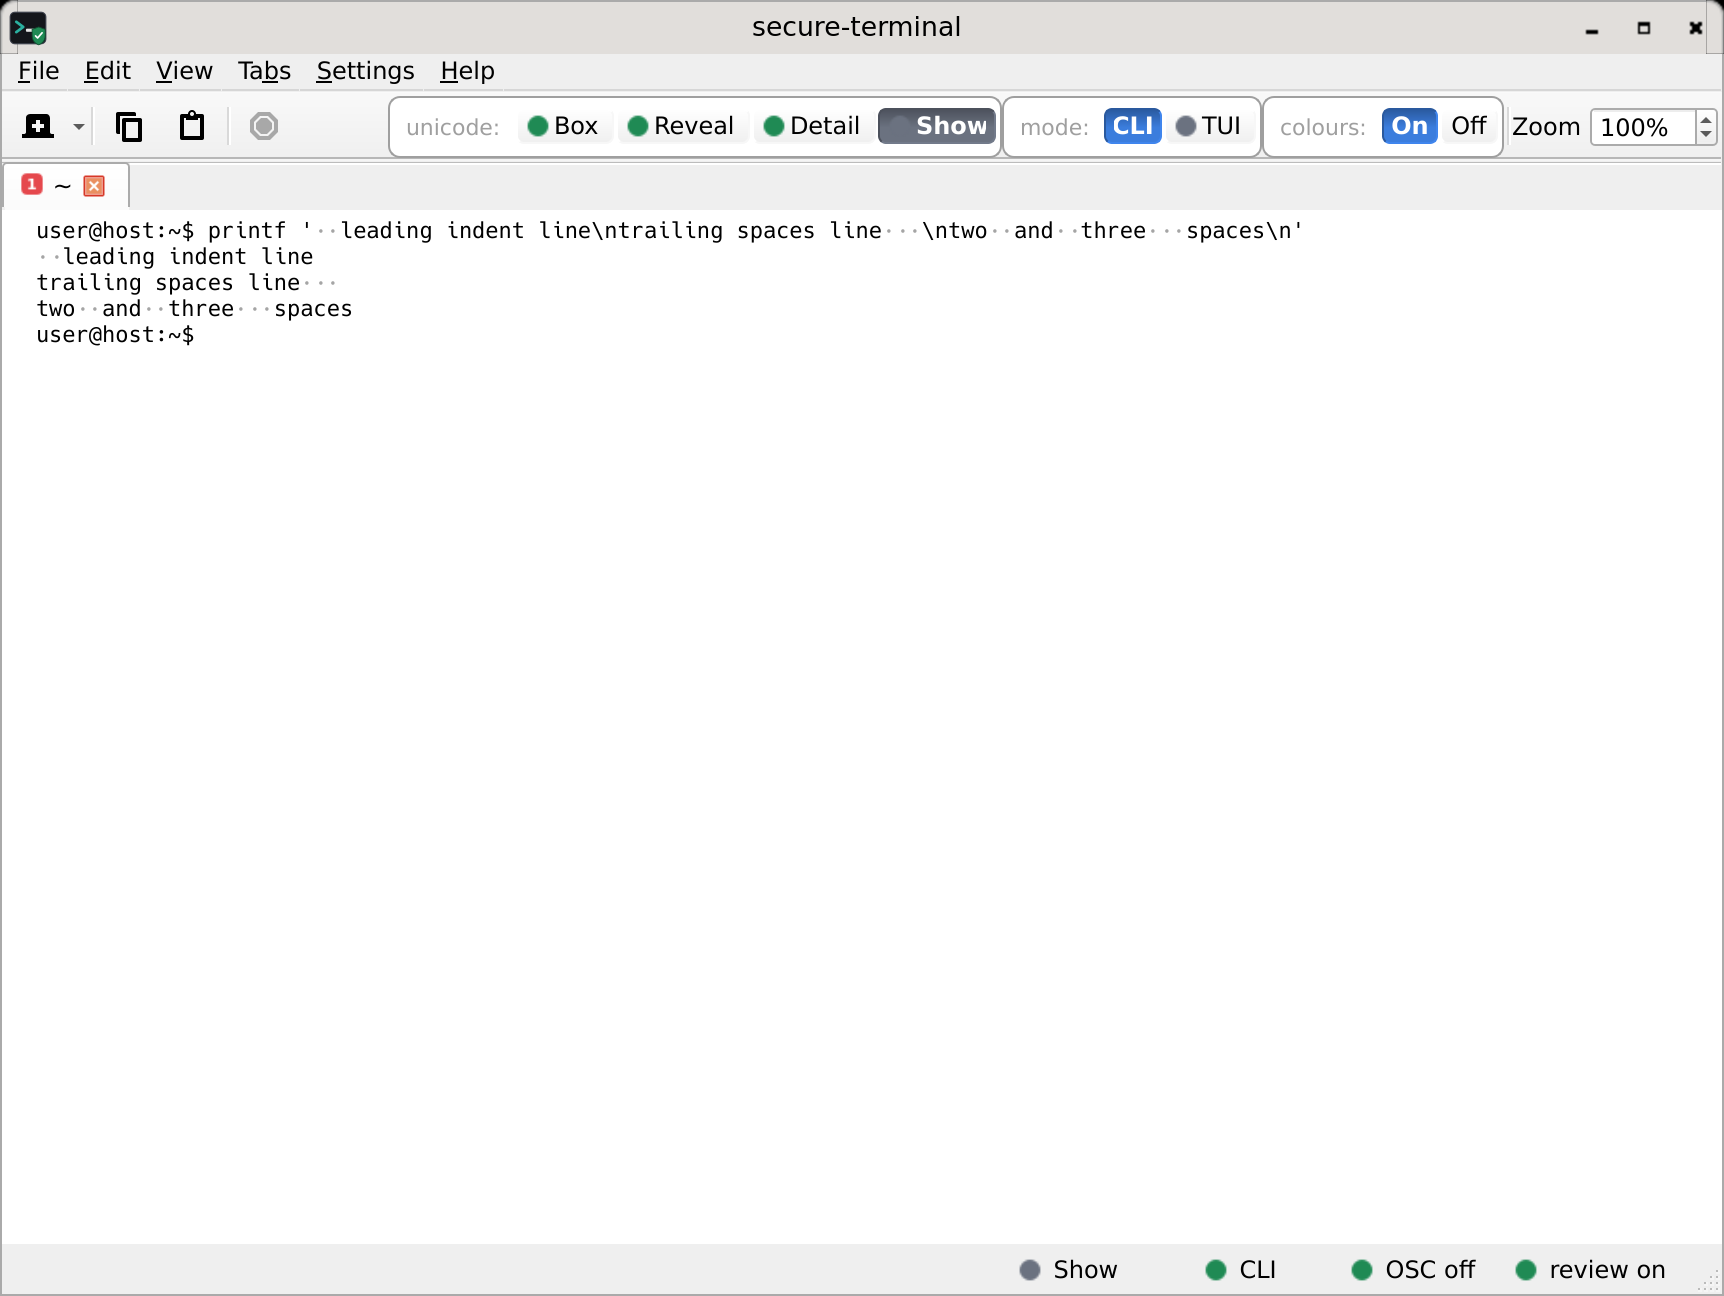
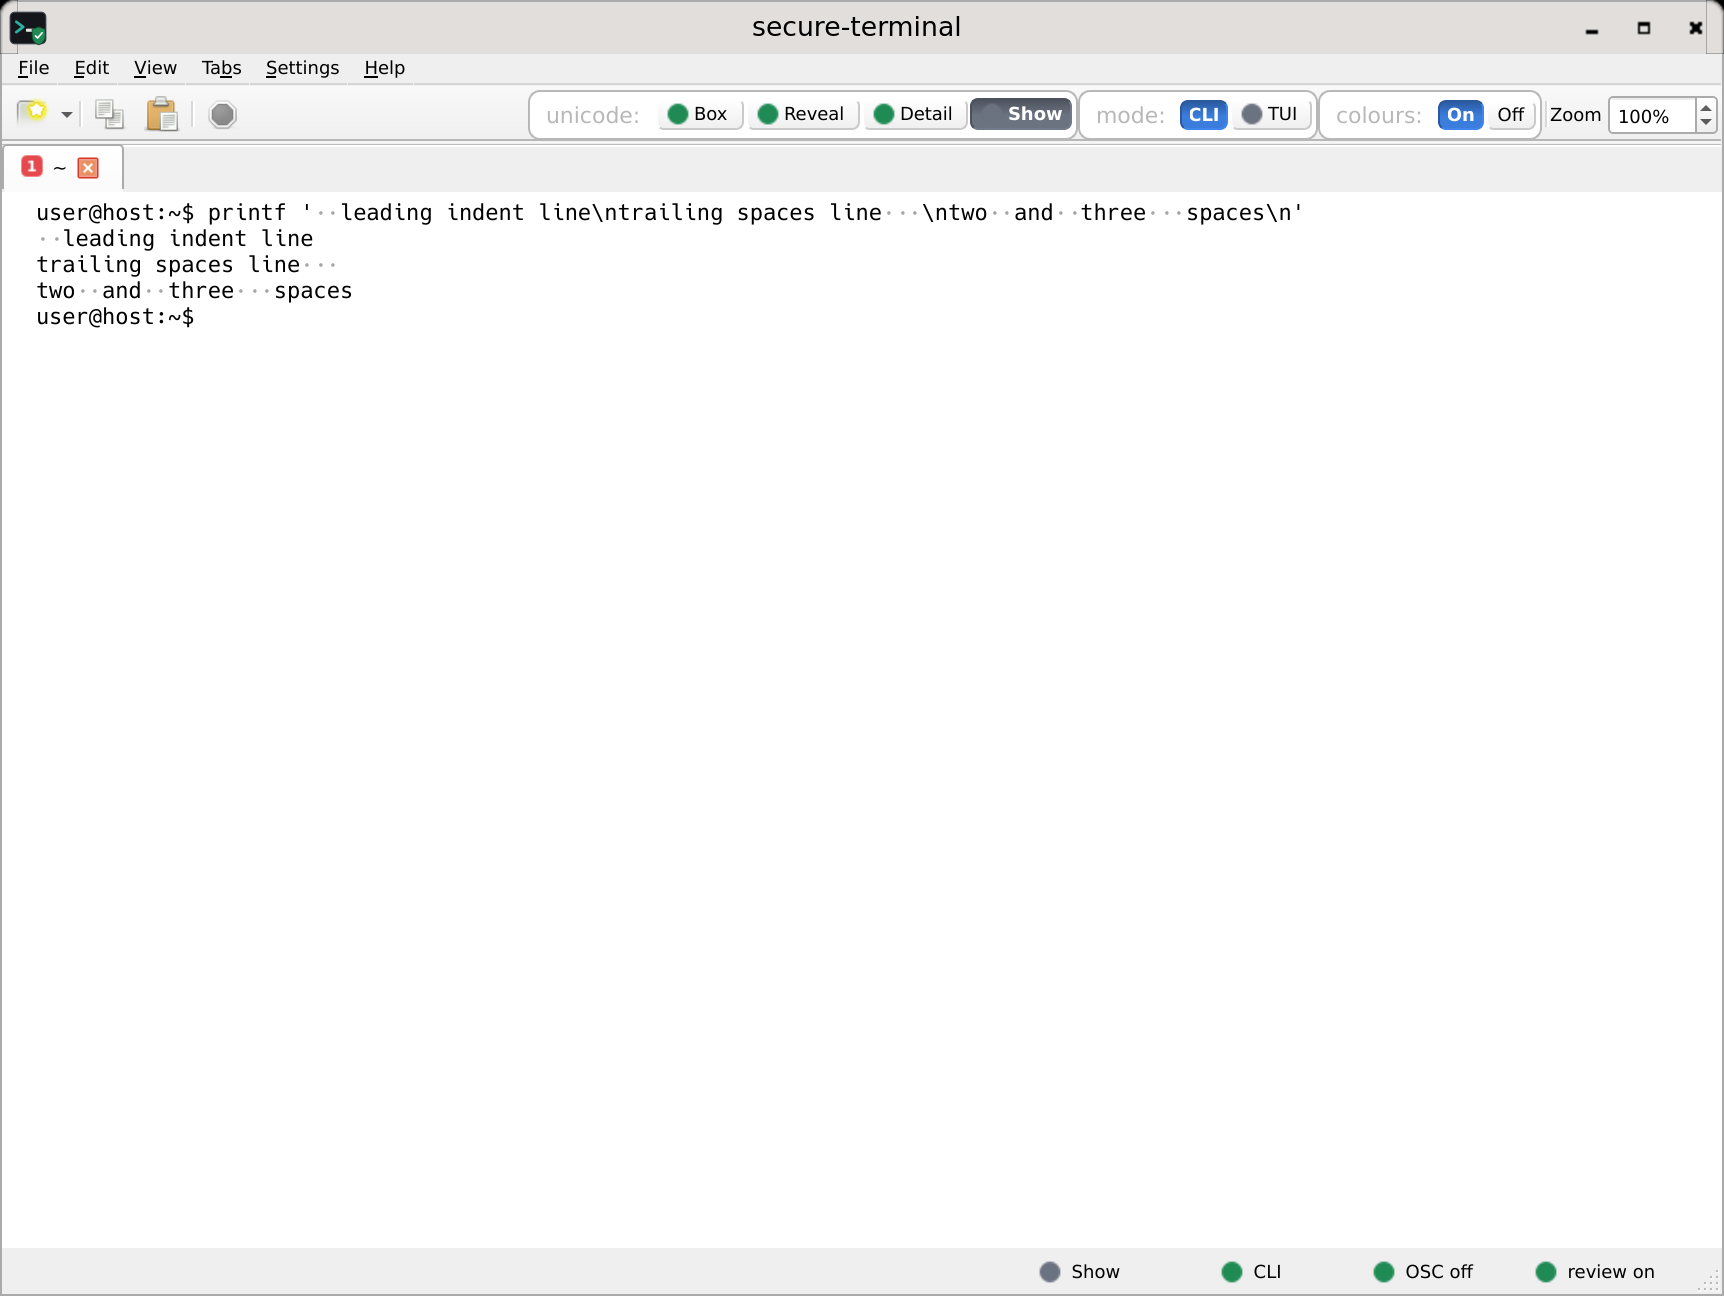
screenshots: add Running programs figure (sleep, nano)
- sleep-cli + nano-gui shots (deterministic terminate targets: a blocked foreground command and a full-screen TUI editor)
- regenerate the nonewline/whitespace demo shots against the current app

diff --git a/screenshots/index.html b/screenshots/index.html
@@ -108,6 +108,14 @@
   <p class="catdesc">leading, trailing and doubled spaces - invisible padding that can hide a command from shell history or fake column alignment - marked with a faint dot. The text still selects and copies as ordinary spaces; only the on-screen look changes.</p>
   <div class="shotgrid"><figure class="shot"><a href="/shots/whitespace-cli.webp" target="_blank" rel="noopener"><img src="/shots/whitespace-cli.webp" width="1724" height="1296" loading="lazy" alt="secure-terminal marking leading, trailing and doubled spaces with a faint dot, CLI mode."></a></figure></div>
   <div class="repro"><div class="reprohd"><span class="repro-try">Reproduce</span> <span class="rnote">&middot; print lines with leading, trailing and doubled spaces</span></div><div class="copybox"><code class="cmd">printf '  leading indent line\ntrailing spaces line   \ntwo  and  three   spaces\n'</code><button class="copybtn" type="button" hidden>Copy</button></div></div>
+
+  <h3 id="shot-programs"><a class="h-anchor" href="#shot-programs">Running programs</a></h3>
+  <p class="catdesc">secure-terminal runs your programs unchanged - a foreground command that holds the prompt, and a full-screen editor drawn in TUI mode. The red Terminate button in the toolbar stops whatever is running.</p>
+  <div class="shotgrid">
+        <figure class="shot"><figcaption class="shotname"><b>sleep (CLI)</b></figcaption><a href="/shots/sleep-cli.webp" target="_blank" rel="noopener"><img src="/shots/sleep-cli.webp" width="1724" height="1296" loading="lazy" alt="secure-terminal running sleep 100 as a foreground command, CLI mode."></a></figure>
+        <figure class="shot"><figcaption class="shotname"><b>nano (TUI)</b></figcaption><a href="/shots/nano-gui.webp" target="_blank" rel="noopener"><img src="/shots/nano-gui.webp" width="1724" height="1296" loading="lazy" alt="secure-terminal running the nano editor full-screen in TUI mode."></a></figure>
+  </div>
+  <div class="repro"><div class="reprohd"><span class="repro-try">Reproduce</span> <span class="rnote">&middot; a foreground command, then a full-screen editor (switch to TUI mode to see it draw)</span></div><div class="copybox"><code class="cmd">sleep 100</code><button class="copybtn" type="button" hidden>Copy</button></div><div class="copybox"><code class="cmd">nano</code><button class="copybtn" type="button" hidden>Copy</button></div></div>
 </div></section>
 
 <section class="cat" id="render-modes"><div class="wrap">
